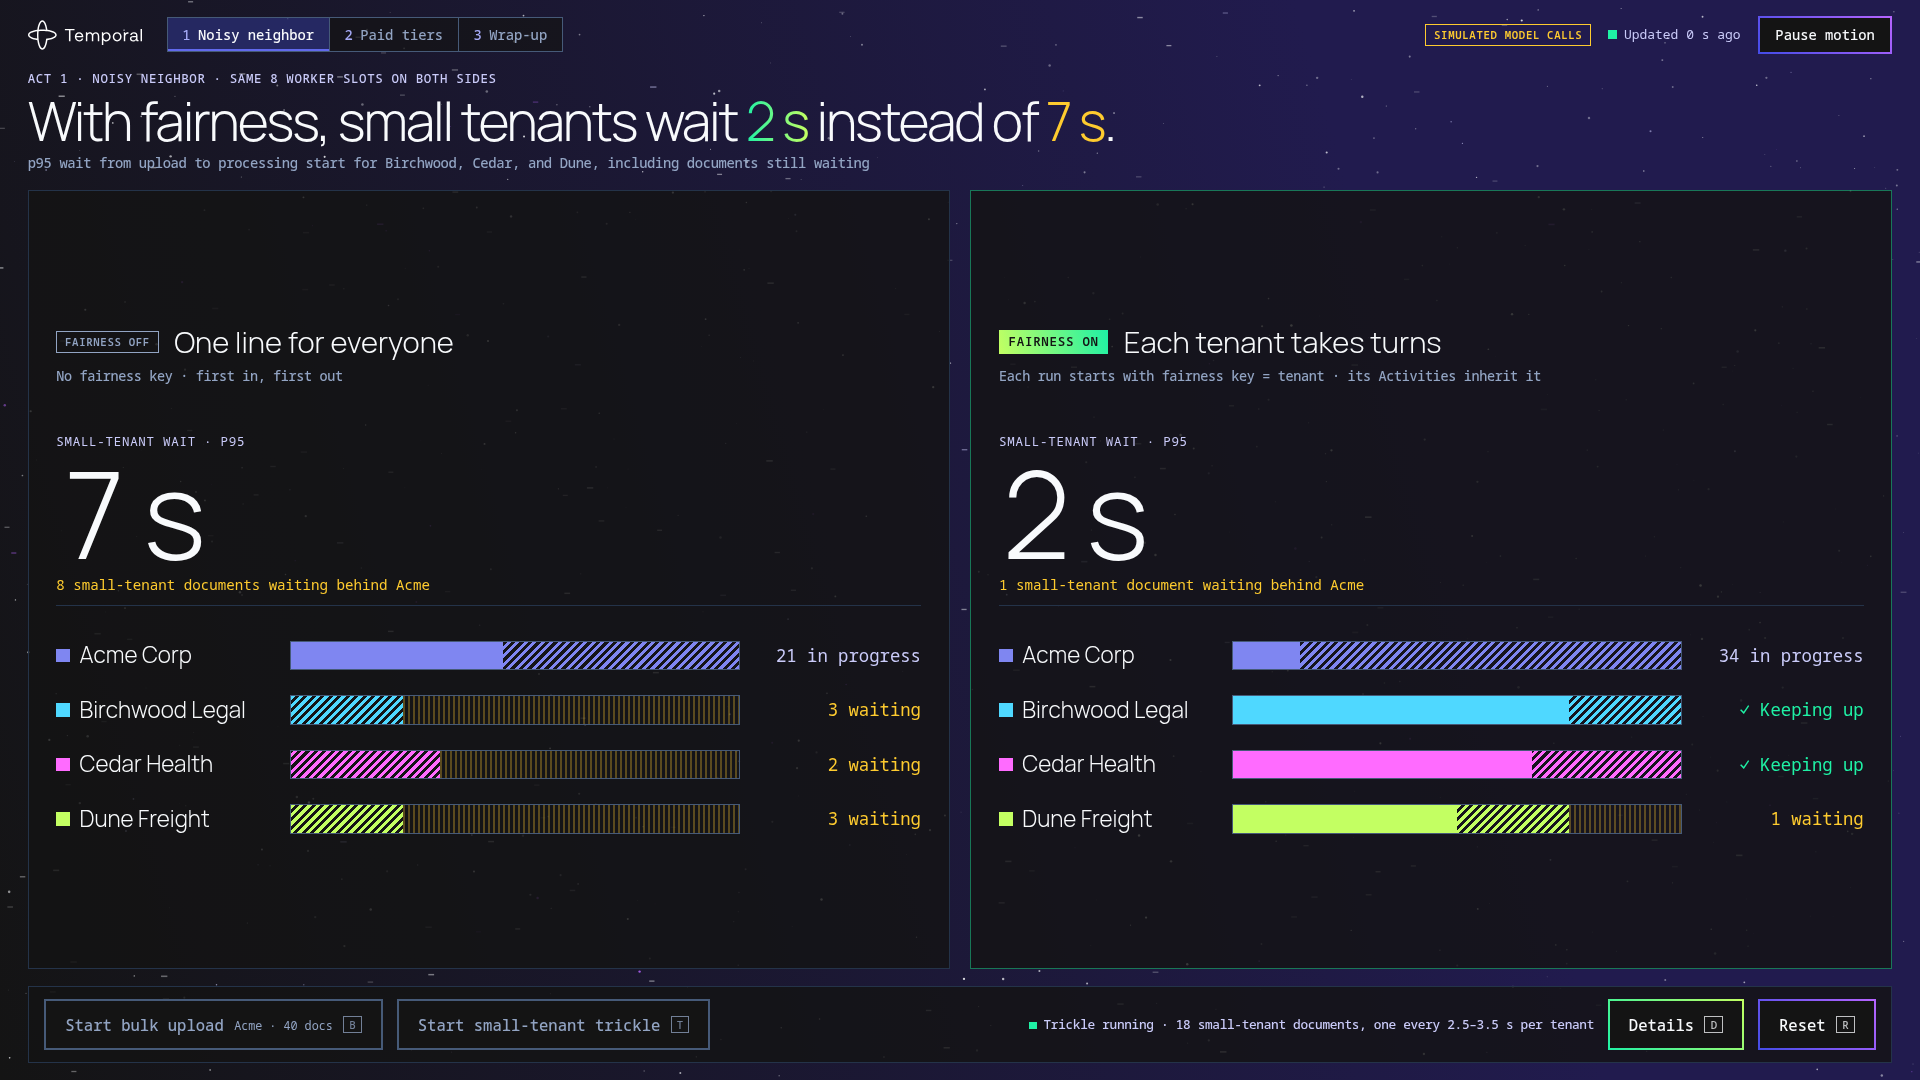
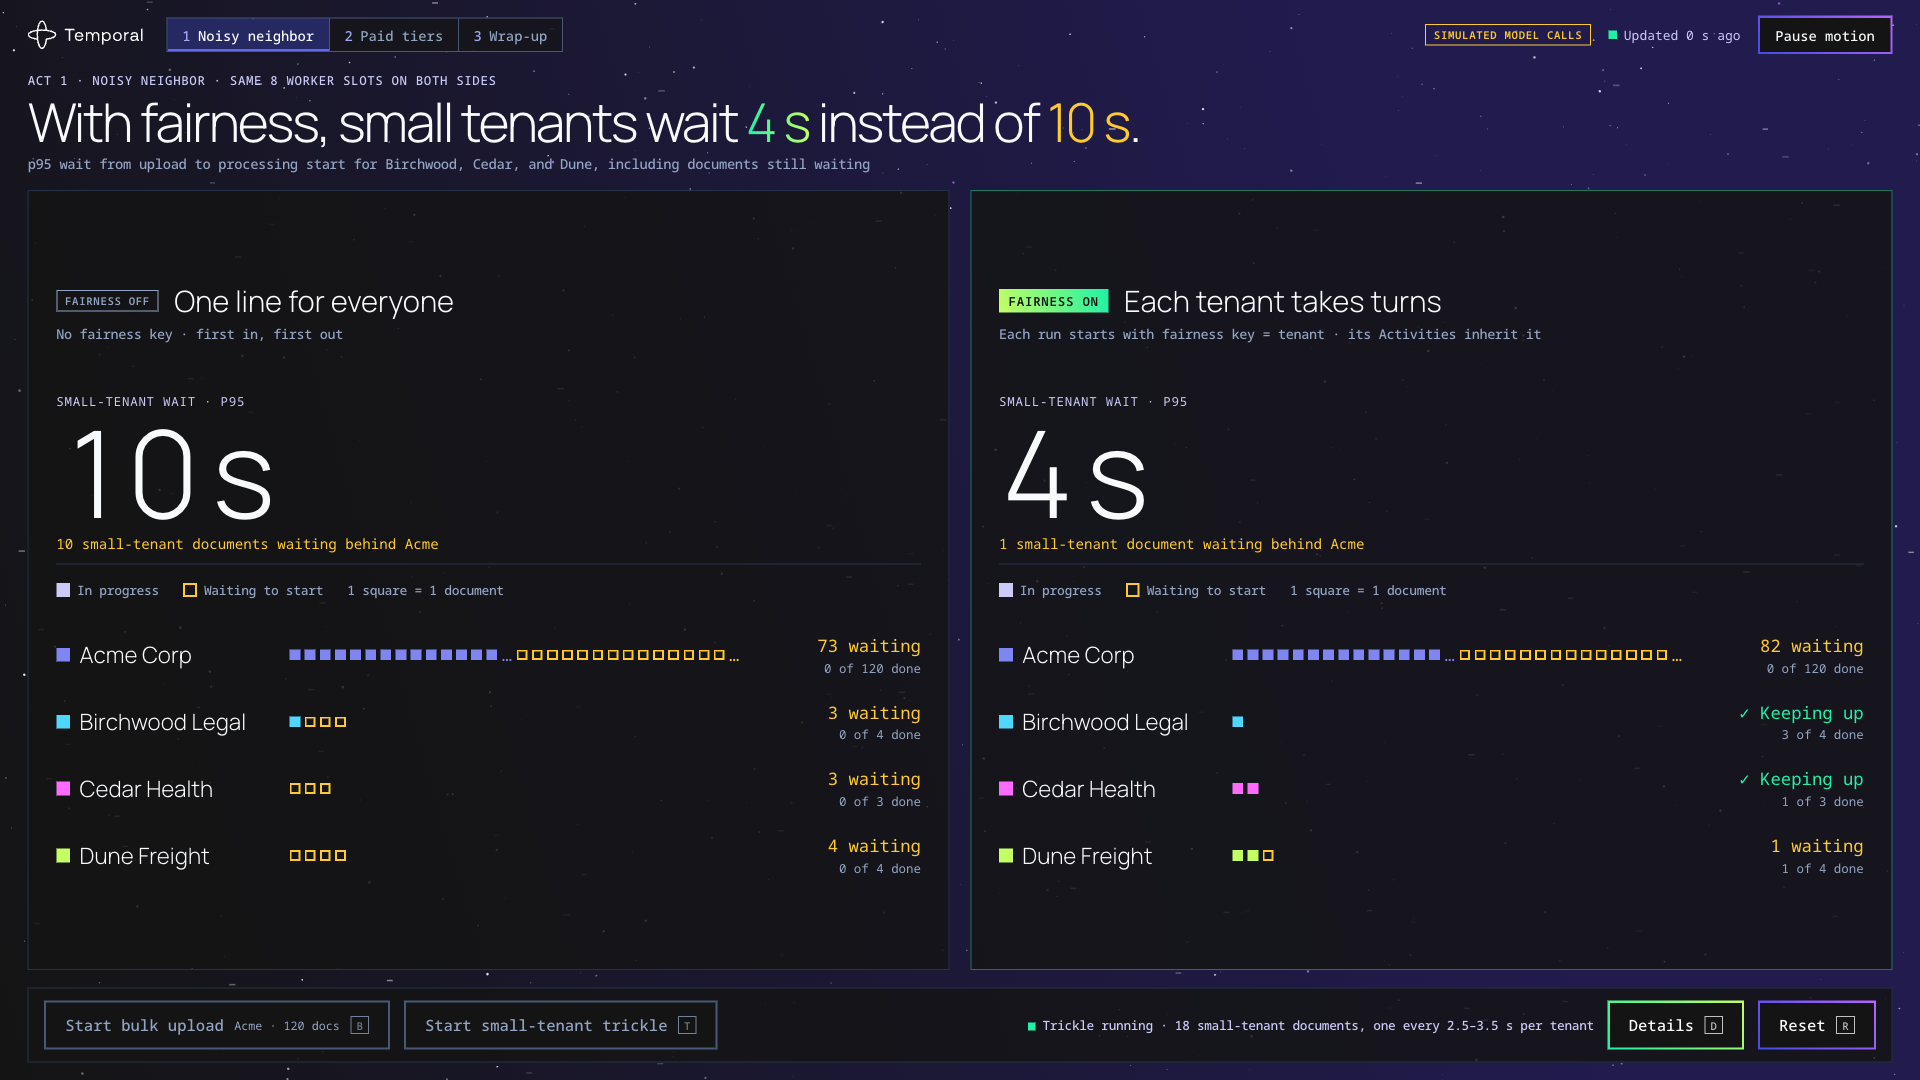
Show one square per document in the tenant lanes
Each lane bar was scaled to its own tenant's total, so 5 of Birchwood's 7 waiting
documents drew shorter than 3 of Cedar's 5, and Acme's 2,000 used the same width.
Small tenants' stuck documents didn't read as stuck.

Each lane now draws one square per document in flight: solid in the tenant's colour
while in progress, outlined in yellow while waiting to start. Done documents leave
the lane and show as "N of M done". Past 30 squares, in progress and waiting split
the lane and each cut-off group ends in "…". A key above the lanes explains it.
"In progress" means started but not finished, which can exceed the slot count
because a started document's tool Activities can still be queued.

Retake the README screenshot with the new lanes.

diff --git a/web/app.css b/web/app.css
@@ -78,11 +78,18 @@ body[data-view="close"] .view-close { display: grid; }
 .lanes .state { font-size: 1rem; }
 .tenant .sw { width: .8rem; height: .8rem; flex: none; background: var(--c); }
 .tenant .name { white-space: nowrap; overflow: hidden; text-overflow: ellipsis; }
-.bar { position: relative; height: 1.7rem; border: 1px solid var(--slate-500); display: flex; overflow: hidden; }
-.bar .done { background: var(--c); }
-.bar .run { background: repeating-linear-gradient(-45deg, var(--c) 0 3px, transparent 3px 6px); }
-.bar .wait { background: repeating-linear-gradient(90deg, rgba(254, 203, 47, .3) 0 2px, transparent 2px 5px); }
+.lane-key { display: flex; gap: 1.4rem; margin: -1rem 0 -.8rem; font-size: .75rem; color: var(--slate-300); }
+.lane-key i { display: inline-block; width: .8rem; height: .8rem; margin-right: .4rem; vertical-align: -.1rem; }
+.lane-key .k-run { background: var(--indigo-100); }
+.lane-key .k-wait { box-shadow: inset 0 0 0 2px var(--yellow); }
+.docs { display: grid; grid-template-columns: repeat(30, minmax(0, 1.4rem)); gap: .25rem; align-items: center; min-height: 1.4rem; }
+.docs i { aspect-ratio: 1; }
+.docs i.run { background: var(--c); }
+.docs i.wait { box-shadow: inset 0 0 0 2px var(--yellow); }
+.docs .more { font-family: var(--font-mono); font-size: 1rem; line-height: 1; text-align: center; color: var(--c); }
+.docs .more.wait { color: var(--yellow); }
 .state { font-family: var(--font-mono); font-size: .9rem; text-align: right; white-space: nowrap; }
+.state small { display: block; margin-top: .15rem; font-size: .72rem; color: var(--slate-300); }
 .state.waiting { color: var(--yellow); }
 .state.good { color: var(--green); }
 .state.busy { color: var(--indigo-100); }
@@ -232,7 +239,9 @@ body:not([data-view="act1"]) .act1-only { display: none; }
   .side-how { margin: -.3rem 0 .3rem; }
   .big-wait { border-bottom: 0; border-right: 1px solid var(--border); }
   .big-value { font-size: 4.6rem; }
-  .lanes { gap: .9rem; } .lanes .tenant { font-size: 1.05rem; } .bar { height: 1.2rem; }
+  .big-wait { grid-row: span 2; }
+  .lane-key { grid-column: 2; margin: 0; }
+  .lanes { grid-column: 2; gap: .9rem; } .lanes .tenant { font-size: 1.05rem; } .docs { gap: .15rem; }
   .lane { grid-template-columns: 8.5rem minmax(0, 1fr) 7.5rem; }
   .status-strip .badge { display: none; }
   .drawer { width: 100vw; }

diff --git a/web/app.js b/web/app.js
@@ -88,6 +88,18 @@ function laneState(id, t) {
   return settings.small_tenants.includes(id) ? ["✓ Keeping up", "good"] : [`${num(t.running)} in progress`, "busy"];
 }
 
+// One square per document in flight, the same unit in every lane, so counts compare across
+// tenants. Done documents leave the lane. Past LANE_CELLS, in-progress and waiting split the
+// lane so both stay visible, and a cut-off group ends in "…".
+const LANE_CELLS = 30;
+function laneDocs(t) {
+  const run = Math.min(t.running, Math.max(LANE_CELLS / 2, LANE_CELLS - t.waiting));
+  const group = (cls, shown, n) => shown < n
+    ? `<i class="${cls}"></i>`.repeat(shown - 1) + `<span class="more ${cls}">…</span>`
+    : `<i class="${cls}"></i>`.repeat(shown);
+  return group("run", run, t.running) + group("wait", Math.min(t.waiting, LANE_CELLS - run), t.waiting);
+}
+
 function renderAct1() {
   for (const sideName of ["off", "on"]) {
     const side = view?.sides[sideName], el = $(`.side[data-side="${sideName}"]`);
@@ -102,12 +114,11 @@ function renderAct1() {
       `<span class="big-label">Small-tenant wait · p95</span><span class="big-value">${value}</span><span class="big-note ${cls}">${note}</span>`;
     $('[data-slot="lanes"]', el).innerHTML = settings.tenants.map(({ id }) => {
       const t = side?.tenants[id] || { total: 0, done: 0, running: 0, waiting: 0 };
-      const pct = v => (t.total ? (v / t.total) * 100 : 0);
       const [state, scls] = laneState(id, t);
       return `<div class="lane" role="listitem" style="--c:${COLORS[id]}">
         ${tenantCell(id)}
-        <span class="bar" role="img" aria-label="${num(t.done)} of ${num(t.total)} done"><span class="done" style="width:${pct(t.done)}%"></span><span class="run" style="width:${pct(t.running)}%"></span><span class="wait" style="width:${pct(t.waiting)}%"></span></span>
-        <span class="state ${scls}">${state}</span>
+        <span class="docs" role="img" aria-label="${T(id).name}: ${num(t.running)} in progress, ${num(t.waiting)} waiting, ${num(t.done)} of ${num(t.total)} done">${laneDocs(t)}</span>
+        <span class="state ${scls}">${state}${t.total ? `<small>${num(t.done)} of ${num(t.total)} done</small>` : ""}</span>
       </div>`;
     }).join("");
   }

diff --git a/web/index.html b/web/index.html
@@ -44,6 +44,7 @@
           </header>
           <p class="side-how mono">No fairness key · first in, first out</p>
           <div class="big-wait" data-slot="wait"></div>
+          <p class="lane-key mono"><span><i class="k-run" aria-hidden="true"></i>In progress</span><span><i class="k-wait" aria-hidden="true"></i>Waiting to start</span><span>1 square = 1 document</span></p>
           <div class="lanes" data-slot="lanes" role="list" aria-label="Tenants, fairness off"></div>
         </section>
 
@@ -54,6 +55,7 @@
           </header>
           <p class="side-how mono">Each run starts with fairness key = tenant · its Activities inherit it</p>
           <div class="big-wait" data-slot="wait"></div>
+          <p class="lane-key mono"><span><i class="k-run" aria-hidden="true"></i>In progress</span><span><i class="k-wait" aria-hidden="true"></i>Waiting to start</span><span>1 square = 1 document</span></p>
           <div class="lanes" data-slot="lanes" role="list" aria-label="Tenants, fairness on"></div>
         </section>
       </div>
